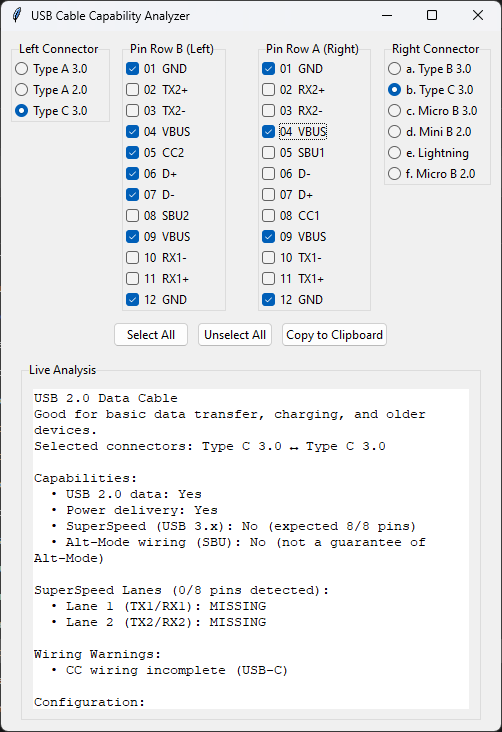
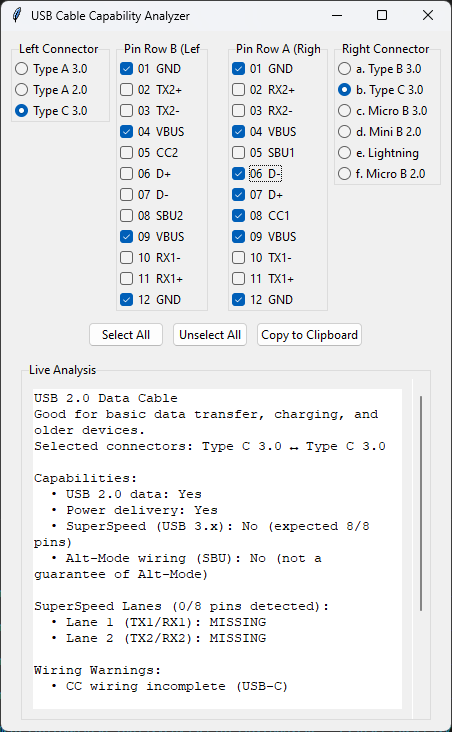
Adjust window size and add scrollbar to report text for improved usability

diff --git a/usb_cable_tool.py b/usb_cable_tool.py
@@ -308,7 +308,7 @@ class USBCableChecker(tk.Tk):
     def __init__(self):
         super().__init__()
         self.title("USB Cable Capability Analyzer")
-        self.geometry("500x700")
+        self.geometry("450x700")
         self.vars = {}
         self.left_connector_var = tk.StringVar(value="Type C 3.0")
         self.right_connector_var = tk.StringVar(value="Type C 3.0")
@@ -391,14 +391,20 @@ class USBCableChecker(tk.Tk):
         report_frame.grid(row=2, column=0, columnspan=4, sticky="nsew", padx=10, pady=(15, 0))
         main.grid_rowconfigure(2, weight=1)
 
+        # Create scrollbar for report text
+        scrollbar = ttk.Scrollbar(report_frame)
+        scrollbar.pack(side="right", fill="y")
+
         self.report_text = tk.Text(
             report_frame,
             wrap="word",
             height=12,
             borderwidth=0,
             highlightthickness=0,
+            yscrollcommand=scrollbar.set,
         )
-        self.report_text.pack(fill="both", expand=True, padx=10, pady=10)
+        self.report_text.pack(side="left", fill="both", expand=True, padx=10, pady=10)
+        scrollbar.config(command=self.report_text.yview)
 
         self._update_report()
 
